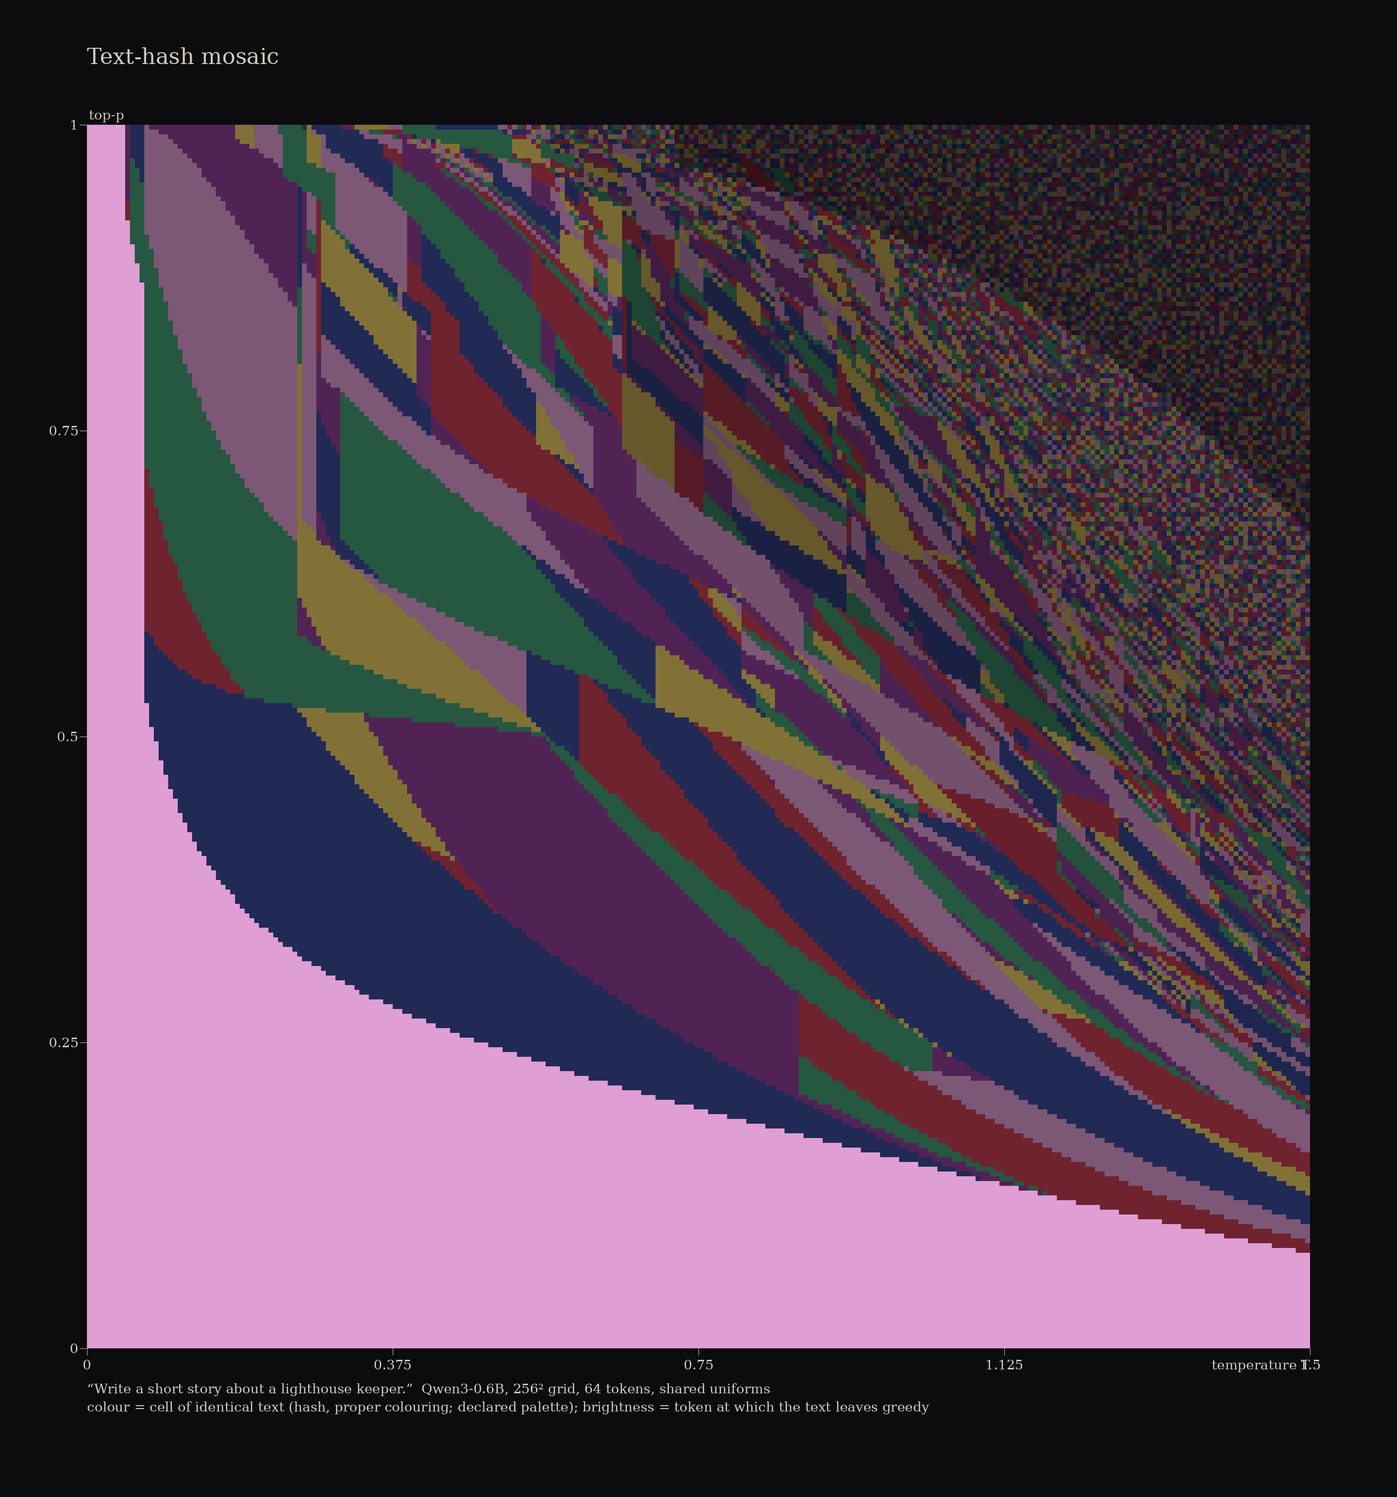
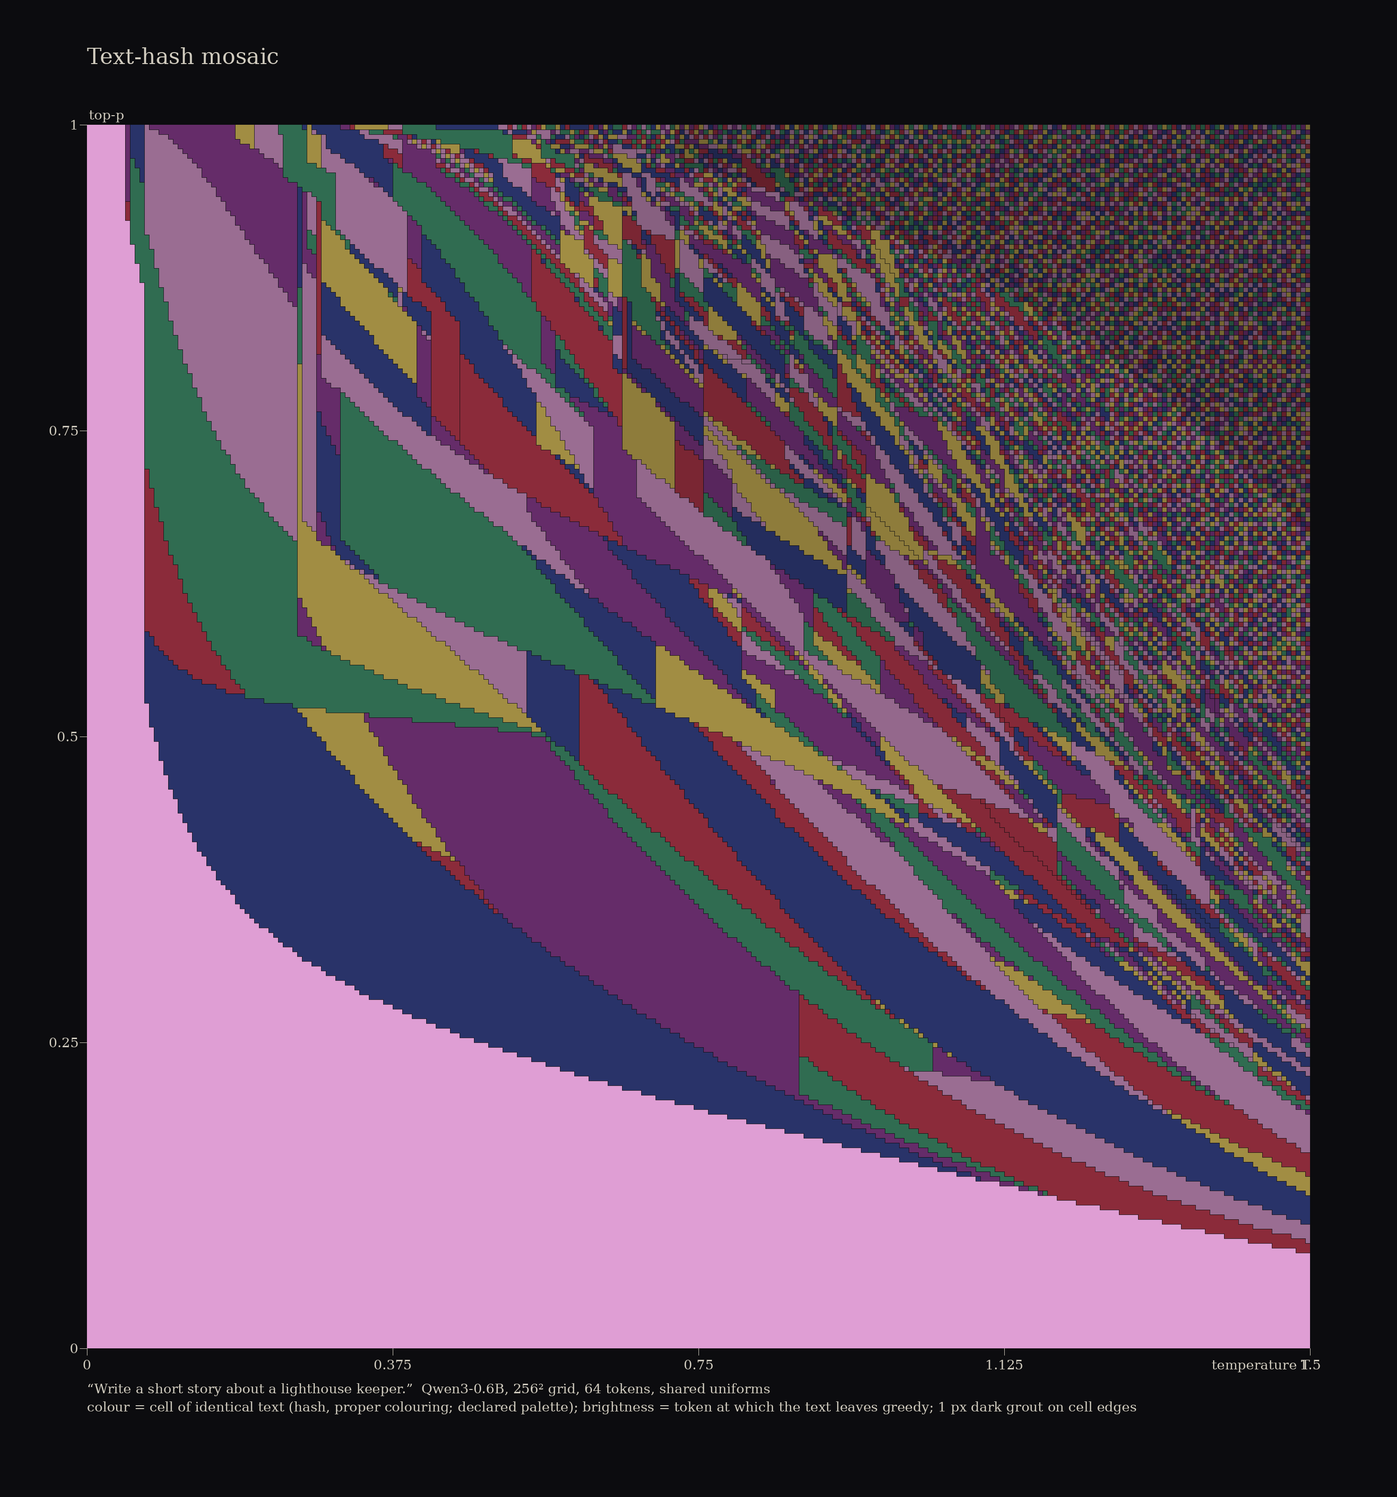
art/decode-map: (T, repetition penalty) map plates (glass/mosaic/ink/age, penalty Spectral), top-p vs penalty diptych, README section, touched-up firstdiv/age/mosaic plates; NOTES complete

diff --git a/art/decode-map/heroes.py b/art/decode-map/heroes.py
@@ -24,6 +24,16 @@ def axes(d):
     return ((d["xs"][0] - dx / 2, d["xs"][-1] + dx / 2), (d["ys"][0] - dy / 2, d["ys"][-1] + dy / 2), xl, yl)
 
 
+def fd_split(fd, Hs, horizon=HORIZON):
+    """Signed field for a first-divergence Spectral split at `horizon`: integer part = |fd - horizon + 0.5|
+    (earlier/later departure = further from the seam), fractional tie-break = global rank of the mean
+    sampling entropy (varies smoothly with the knobs inside a cell; declared)."""
+    from scipy.stats import rankdata
+    frac = 0.98 * (rankdata(np.round(Hs, 3).ravel()).reshape(Hs.shape) - 1) / Hs.size
+    dist = np.abs(fd - (horizon - 0.5)) + frac
+    return np.where(fd < horizon, -dist, dist)
+
+
 def put(img, name, sub, d, title, caption, dark=True):
     g, ink = ((0.05, 0.05, 0.06), (0.82, 0.8, 0.75)) if dark else (tuple(R.INK_PAPER), (0.15, 0.15, 0.15))
     R.save(R.frame(img, title, caption, ground=g, ink=ink, axes=axes(d)), name, sub)
@@ -35,21 +45,21 @@ def maps(names=("story_tp256", "list_tp256", "fact_tp256"), s=10):
         d = A.load(C + n + ".npz")
         L = d["tokens"].shape[2]
         q = f"“{d['prompt']}”  Qwen3-0.6B, {d['tokens'].shape[0]}² grid, {L} tokens, shared uniforms"
-        put(R.style_mosaic(d, s), f"{n}_mosaic.png", "hero", d, "Text-hash mosaic", q +
-            "\ncolour = cell of identical text (hash, proper colouring; declared palette); brightness = token at which the text leaves greedy")
+        put(R.style_mosaic(d, s, floor=0.5, grout=1), f"{n}_mosaic.png", "hero", d, "Text-hash mosaic", q +
+            "\ncolour = cell of identical text (hash, proper colouring; declared palette); brightness = token at which the text leaves greedy; 1 px dark grout on cell edges")
         put(R.style_glass(d, s), f"{n}_glass.png", "hero", d, "Stained glass", q +
             "\nlead = boundary between different texts; glass colour and jitter declared from the text hash")
         put(R.style_ink(d, s, w=2), f"{n}_ink.png", "hero", d, "Boundary lines", q +
             "\none line per tile edge whose two texts differ; darker = the texts part at an earlier token", dark=False)
-        put(R.style_age(d, s, w=2), f"{n}_age.png", "hero", d, "Boundary age", q +
-            f"\nboundary colour = token index at which the neighbours part (batlow, 0 → {L - 1})")
+        put(R.style_age(d, s, w=3, floor=0.25), f"{n}_age.png", "hero", d, "Boundary age", q +
+            f"\nboundary colour = token index at which the neighbours part (batlow from 25 %, 0 → {L - 1})")
         if n == "story_tp256":
             fd = A.first_divergence(d["tokens"]).astype(float)
-            sig = fd - (HORIZON - 0.5)
+            sig = fd_split(fd, A.mean_entropy(d, "H_samp"))
             put(R.style_split(sig, s, lead_tokens=d["tokens"][..., :HORIZON]), f"{n}_firstdiv_spectral.png", "hero", d,
                 "First divergence from greedy, Spectral split",
                 q + f"\nsigned = (token where the text leaves the greedy text) − {HORIZON}: purple side leaves before token {HORIZON}, red side later or never."
-                f"\nEach side rank-normalised (declared; sequential quantity, labelled variant). Thin lines: boundaries born before token {HORIZON}")
+                f"\nTies within one token index broken by mean sampling entropy; each side rank-normalised (declared; labelled variant). Thin lines: boundaries born before token {HORIZON}")
             sig, thr = R.coherence_split(d)
             put(R.style_split(sig, s), f"{n}_coherence_spectral.png", "hero", d, "Coherent vs degenerate, Spectral split",
                 q + f"\nsigned = mean model entropy along the text − {thr:.2f} nats (histogram valley); purple = coherent, red = degenerate")
@@ -127,6 +137,42 @@ def table(n="story_tp256", ps=(0.5, 0.9), T_max=1.5, rows=10):
         out.append(hover.transect_table(C + n + ".npz", p, rows, T_max))
     open(f"cache/{n}_transects.html", "w").write("\n".join(out))
     print("\n".join(out)[:3000])
+
+
+def tr(n="story_tr192", ref="story_tp256", s=14):
+    """(T, repetition penalty) map at p = 1: hero styles, penalty Spectral plate, tp-vs-tr diptych."""
+    d = A.load(C + n + ".npz")
+    tk = d["tokens"]
+    L = tk.shape[2]
+    q = f"“{d['prompt']}”  Qwen3-0.6B, {tk.shape[0]}² grid, {L} tokens, top-p = 1, shared uniforms, HF-style penalty on prompt + text"
+    put(R.style_glass(d, s), f"{n}_glass.png", "hero", d, "Stained glass, repetition penalty", q +
+        "\nlead = boundary between different texts; glass colour and jitter declared from the text hash")
+    put(R.style_mosaic(d, s, floor=0.5, grout=1), f"{n}_mosaic.png", "hero", d, "Text-hash mosaic, repetition penalty", q +
+        "\ncolour = cell of identical text (declared palette); brightness = token at which the text leaves greedy; 1 px grout")
+    put(R.style_ink(d, s, w=2), f"{n}_ink.png", "hero", d, "Boundary lines, repetition penalty", q +
+        "\none line per tile edge whose two texts differ; darker = the texts part at an earlier token", dark=False)
+    put(R.style_age(d, s, w=4, floor=0.25), f"{n}_age.png", "hero", d, "Boundary age, repetition penalty", q +
+        f"\nboundary colour = token index at which the neighbours part (batlow from 25 %, 0 → {L - 1})")
+    fd = A.first_divergence(tk, None)
+    diff = tk != tk[0][None]                   # reference = the unpenalised (ρ ≈ 1.003) text in the same T column
+    fdu = np.where(diff.any(-1), diff.argmax(-1), L)
+    sig = fd_split(fdu, A.mean_entropy(d, "H_samp"))
+    put(R.style_split(sig, s, lead_tokens=tk[..., :HORIZON]), f"{n}_penalty_spectral.png", "metrics", d,
+        "Where the penalty rewrites the story, Spectral split", q +
+        f"\nsigned = (token where the text leaves the unpenalised text at the same T) − {HORIZON}: purple = rewritten before token {HORIZON}, red = later or never."
+        f"\nTies broken by mean sampling entropy; each side rank-normalised (declared). Thin lines: boundaries born before token {HORIZON}")
+    # diptych: same prompt, same uniforms, top-p axis vs penalty axis, both at 16 tokens (inside the horizon)
+    dr = A.load(C + ref + ".npz")
+    ims = []
+    for dd, name in [(dr, "top-p ∈ [0, 1], penalty 1"), (d, "repetition penalty ∈ [1, 2], top-p 1")]:
+        dd = dict(dd); dd["tokens"] = dd["tokens"][..., :HORIZON]
+        nc = len(np.unique(A.prefix_hashes(dd["tokens"])[-1]))
+        sc = 2688 // dd["tokens"].shape[0]
+        ims.append(R.frame(R.style_glass(dd, sc), name, f"{nc} distinct {HORIZON}-token texts in {dd['tokens'].shape[0]}² samples", axes=axes(dd)))
+    h = max(i.shape[0] for i in ims)
+    ims = [np.pad(i, ((0, h - i.shape[0]), (0, 0), (0, 0)), constant_values=0.06) for i in ims]
+    R.save(np.concatenate(ims, 1), "diptych_topp_vs_penalty_glass_L16.png", "diptych")
+    print("diptych")
 
 
 def redo():

diff --git a/art/decode-map/render.py b/art/decode-map/render.py
@@ -132,7 +132,7 @@ def frame(img, title=None, caption=None, ground=(0.06, 0.06, 0.07), ink=(0.85, 0
 
 
 # ---------------------------------------------------------------------------- styles
-def style_mosaic(d, s, pal="klimt_categorical", ground=(0.05, 0.05, 0.06), gamma=0.6, colours=None):
+def style_mosaic(d, s, pal="klimt_categorical", ground=(0.05, 0.05, 0.06), gamma=0.6, colours=None, floor=0.28, grout=0):
     """Categorical: proper colouring of the output-text cells (adjacent distinct outputs never share
     a colour); brightness = first-divergence position from the greedy output (late = bright)."""
     tk = d["tokens"]
@@ -142,9 +142,14 @@ def style_mosaic(d, s, pal="klimt_categorical", ground=(0.05, 0.05, 0.06), gamma
         colours = A.stable_colours(hs, len(palette(pal)), [L])[0]
     P = palette(pal)
     fd = A.first_divergence(tk)
-    v = 0.28 + 0.72 * (fd / L) ** gamma
+    v = floor + (1 - floor) * (fd / L) ** gamma
     img = P[colours] * v[..., None]
-    return tiles(img, s)
+    canvas = tiles(img, s)
+    if grout:                                   # thin dark grout along cell edges (declared)
+        bv, bh = edge_fields(tk)
+        fn = lambda e: (np.zeros(e.shape + (3,)) + np.array(ground), np.where(e < L, 0.85, 0.0))
+        canvas = paint_edges(canvas, bv.astype(float), bh.astype(float), s, grout, fn)
+    return canvas
 
 
 def style_glass(d, s, lead=None, pal="glass", colours=None, light=True):
@@ -186,7 +191,7 @@ def style_ink(d, s, w=None, paper=INK_PAPER, ink=SUMI, weight_by_age=True):
     return paint_edges(canvas, bv.astype(float), bh.astype(float), s, w, fn)
 
 
-def style_age(d, s, cmap="cmc.batlow", ground=(0.02, 0.02, 0.03), w=None):
+def style_age(d, s, cmap="cmc.batlow", ground=(0.02, 0.02, 0.03), w=None, floor=0.0):
     """Boundary-age plate: each boundary coloured by the token index at which it was born."""
     tk = d["tokens"]
     L = tk.shape[2]
@@ -197,7 +202,7 @@ def style_age(d, s, cmap="cmc.batlow", ground=(0.02, 0.02, 0.03), w=None):
     w = w or max(1, s // 3)
 
     def fn(v):
-        return cm(np.clip(v / max(1, L - 1), 0, 1))[..., :3], np.where(v < L, 1.0, 0.0)
+        return cm(floor + (1 - floor) * np.clip(v / max(1, L - 1), 0, 1))[..., :3], np.where(v < L, 1.0, 0.0)
     return paint_edges(canvas, bv.astype(float), bh.astype(float), s, w, fn)
 
 

diff --git a/art/decode-map/README.md b/art/decode-map/README.md
@@ -24,10 +24,10 @@ All plates show the story prompt “Write a short story about a lighthouse keepe
 <table>
 <tr><td><img src="gallery/hero/story_tp256_glass.png" width="400"><br><b>Stained glass.</b> Lead = tile edges whose two texts differ; glass colour is a hash-based proper colouring (declared).</td>
 <td><img src="gallery/hero/story_tp256_ink.png" width="400"><br><b>Boundary lines, single ink.</b> Darker lines mark texts that part at an earlier token (opacity 1 − 0.75·t/L, declared).</td></tr>
-<tr><td><img src="gallery/hero/story_tp256_mosaic.png" width="400"><br><b>Text-hash mosaic.</b> Colour = text cell; brightness = token at which the text leaves the greedy text.</td>
-<td><img src="gallery/hero/story_tp256_age.png" width="400"><br><b>Boundary age.</b> Line colour = token index at which the neighbours part (batlow, 0 → 63).</td></tr>
+<tr><td><img src="gallery/hero/story_tp256_mosaic.png" width="400"><br><b>Text-hash mosaic.</b> Colour = text cell; brightness = token at which the text leaves the greedy text; 1 px dark grout (declared).</td>
+<td><img src="gallery/hero/story_tp256_age.png" width="400"><br><b>Boundary age.</b> Line colour = token index at which the neighbours part (batlow from 25 % so early edges stay visible, 0 → 63; 3 px lines).</td></tr>
 <tr><td><img src="gallery/hero/story_tp256_riso.png" width="400"><br><b>Two-ink riso.</b> Blue = boundaries; pink = rank of mean model entropy; pink misregistered by 4 px (declared).</td>
-<td><img src="gallery/hero/story_tp256_firstdiv_spectral.png" width="400"><br><b>First divergence, Spectral split</b> at token 16, the reproducibility horizon (labelled variant for a sequential quantity). Thin lines = boundaries born before token 16.</td></tr>
+<td><img src="gallery/hero/story_tp256_firstdiv_spectral.png" width="400"><br><b>First divergence, Spectral split</b> at token 16, the reproducibility horizon (labelled variant for a sequential quantity). Ties within one token index are broken by mean sampling entropy, which gives the gradients. Thin lines = boundaries born before token 16.</td></tr>
 </table>
 
 ### Continuous metrics
@@ -51,6 +51,26 @@ Both rules sample exactly the same distribution per step, but the maps differ. I
 <td><img src="gallery/hero/list_tp256_ink.png" width="265"><br>List prompt, ink</td>
 <td><img src="gallery/hero/fact_tp256_mosaic.png" width="265"><br>Fact prompt (“capital of Australia”): one answer covers ~97 % of the plane. Only the T > 1.3, p → 1 corner fractures (292 texts).</td>
 </tr></table>
+
+### Temperature × repetition penalty (192², L = 48)
+The same prompt and the same uniforms u<sub>t</sub>, but now top-p is fixed at 1 and the y axis is the HF-style repetition penalty ρ ∈ [1, 2]: for every token already present in the prompt (chat template) or the text so far, a positive logit is divided by ρ and a negative one multiplied by ρ, and only then tempered.
+<img src="gallery/diptych/diptych_topp_vs_penalty_glass_L16.png" width="820"><br>
+<i>Glass, both maps cut at 16 tokens (the reproducibility horizon). Left: (T, top-p). Right: (T, ρ). Measured partitions; colours declared.</i>
+<table>
+<tr><td><img src="gallery/hero/story_tr192_glass.png" width="400"><br><b>Stained glass</b>, L = 48, 11,922 distinct texts.</td>
+<td><img src="gallery/hero/story_tr192_ink.png" width="400"><br><b>Boundary lines, single ink.</b> A Mondrian grid: the boundaries are almost all axis-parallel.</td></tr>
+<tr><td><img src="gallery/hero/story_tr192_mosaic.png" width="400"><br><b>Text-hash mosaic</b> (brightness = token at which the text leaves the T → 0, ρ ≈ 1 text).</td>
+<td><img src="gallery/metrics/story_tr192_penalty_spectral.png" width="400"><br><b>Where the penalty rewrites the story, Spectral split.</b> Signed = (token at which the text leaves the unpenalised text in the same T column) − 16. Purple = rewritten before token 16, red = later or never. Ties broken by mean sampling entropy, each side rank-normalised (declared, labelled variant).</td></tr>
+<tr><td><img src="gallery/hero/story_tr192_age.png" width="400"><br><b>Boundary age</b> (batlow, 0 → 47).</td><td></td></tr>
+</table>
+
+**How it differs from the (T, top-p) map** (`scratch/tr_stats.py`, `scratch/tr_edges.py`):
+- **Geometry.** Top-p cuts the plane along curves, because the nucleus cutoff and the tempered CDF move together. The penalty map is **rectilinear**. Near T = 0 the argmax flips at a penalty value that does not depend on T, which gives horizontal edges. At high T every small T step re-rolls a token while ρ only rescales the few already-seen tokens, which gives vertical stripes. At T > 1 and l = 16, a single T step (ΔT = 0.0078) changes the text in 95 % of neighbour pairs, but a single ρ step (Δρ = 0.0052) changes it in only 31 %. In the (T, p) map the two directions are nearly isotropic there (24 % vs 21 %).
+- **The first token ignores the penalty.** Across the whole plane only 3 neighbour pairs along ρ differ at l = 1. The 45 first-token cells are vertical stripes, mostly at T > 1. (The (T, p) map has 152 first tokens, carved by p.)
+- **More texts.** There are 1483 / 2542 / 4078 / 11,922 texts at l = 4 / 8 / 16 / 48 on 36,864 pixels, against 955 / 1604 / 2056 / 5208 on 65,536 pixels for (T, p). No region is protected: top-p → 0 forces greedy decoding over a large region, but top-p = 1 has none, so the largest cell covers only 13 % of the plane at l = 16 (34 % for (T, p)).
+- **The penalty does rewrite the story, but late at small ρ.** The median token at which the text leaves the unpenalised text is 19 at ρ = 1.05, 13 at ρ = 1.2, 7 at ρ = 1.5 and 3 at ρ = 2.
+- **No visible degeneration effect within 48 tokens.** Verbatim 3-gram repetition shows up in only 0.1 % of pixels across the plane (0.8 % in the (T, p) map), and mean model entropy rises only from 1.61 to 1.71 nats from ρ = 1 to 2. The coherence split has no valley here (99.5 % "coherent"), so it is not rendered. At this length the penalty acts as a re-roll of token choices, not a cure for loops.
+- The bottom row (ρ = 1.003) runs the same setting as the top row of the (T, p) map (p = 0.998). It used KV capacity Ncap = 256 instead of 384, a kernel change of the kind the placement table shows can re-roll late tokens.
 
 ### Films
 <video src="gallery/film/refine_story256_ink.mp4" autoplay loop muted playsinline width="540"></video>
@@ -84,7 +104,7 @@ Walking along T at fixed top-p through the 256² map. Grey = prefix shared with 
 - **Model:** Qwen3-0.6B (HF weights, `local_files_only`). `qwen.py` is a hand-written reimplementation with a **bfloat16 body and fp32 LM head**, a static KV cache and no padding, verified against HF (`test_model.py`). Prompts use the chat template (`sample.py: chat_ids`).
 - **Decoder engine** (`decode.py`): a prefix-trie that forwards each distinct prefix once, with CUDA-graph single-token steps (window Fb = 128, KV capacity Ncap = 384). The **certified sampler** computes per row an fp32 top-2048 plus a 0.04-logit histogram of all 151,936 logits, brackets the tail mass, and accepts a pixel only when the top-p cutoff and the inverse-CDF token agree at both brackets. Otherwise the pixel escalates K′ = 256 → 2048 → 32768 → a full float64 sort. Against a naive batch-1 float64 full-sort reference (`test_engine.py`), the certified and V-wide samplers give **identical maps (0 / 4096 pixels differ)** on the same forward kernels.
 - **Noise:** seed 0, u<sub>t</sub> ~ U(0,1) float64, one per position, shared by every pixel. Gumbel: g<sub>t,v</sub> float64, per position and vocab entry.
-- **Grids:** T ∈ [0, 1.5] and p ∈ [0, 1] at pixel centres. story_tp256 (L = 64, 1860 s, 246k node-steps), list_tp256 (L = 48, 292 s), fact_tp256 (L = 64, 131 s), story_tp128 (L = 48, 311 s), story_tp128_gumbel (44 s), plus placement runs (≈ 3400 s). Total GPU ≈ 2 h on the shared GB10, plus earlier toy runs.
+- **Grids:** T ∈ [0, 1.5] and p ∈ [0, 1] at pixel centres. story_tp256 (L = 64, 1860 s, 246k node-steps), list_tp256 (L = 48, 292 s), fact_tp256 (L = 64, 131 s), story_tp128 (L = 48, 311 s), story_tp128_gumbel (44 s), story_tr192 (T × repetition penalty 1–2, p = 1, L = 48, Ncap 256, 2126 s, 298k node-steps), plus placement runs (≈ 3400 s). Total GPU ≈ 2.6 h on the shared GB10, plus earlier toy runs.
 - **Commands** (from `decode-map/`, `PYTHONPATH=. ../.venv/bin/python`, wrapped in `../_shared/gpu_run.sh`):
 ```
 python decode.py --prompt story --res 256 --L 64 --x 0 1.5 --Fb 128 --Ncap 384 --out cache/story_tp256.npz
@@ -94,8 +114,9 @@ python decode.py --prompt story --res 128 --L 48 --x 0 1.5 --Fb 128 --Ncap 384 -
 python decode.py --prompt story --res 128 --L 48 --x 0 1.5 --rule gumbel --nograph --out cache/story_tp128_gumbel.npz
 python decode.py --prompt story --res 64 --L 32 --x 0 2 [--nograph | --slow --nograph | --fp32 | --shuffle --chunk_cols 2 --Ncap 32 --Fb 16] --out cache/place_story64_*.npz
 python decode.py --prompt story --res 128 --L 48 --x 0 1.5 --shuffle --chunk_cols 8 --Ncap 96 --Fb 32 --out cache/place_story128_shuffle.npz
+python decode.py --prompt story --grid tr --res 192 --L 48 --x 0 1.5 --y 1 2 --p_fixed 1.0 --Fb 128 --Ncap 256 --out cache/story_tr192.npz
 python verify.py placement cells horizon box        # -> cache/verify.json, gallery/verify_*.png
-python heroes.py maps metrics diptych table         # CPU renders
+python heroes.py maps metrics diptych table tr        # CPU renders
 python -c "import anim; anim.main('cache/story_tp256.npz','gallery/film/refine_story256_glass',s=4,mode='glass',hold=22,fade=8)"
 ```
 
@@ -132,7 +153,7 @@ Box counting of the boundary set (ε = 1/256 … 1/4 of the window). **Whole pla
 - 256² is coarse for high T: 79 % of cells there are single pixels, so that corner reads as texture, not resolved geometry.
 - Top-p = 0 is greedy by construction. The y axis is the nucleus mass, not a probability of the output.
 - The inverse-CDF map depends on the (descending-probability) sort order of the CDF; a different order convention gives a different map. Gumbel-max has no such dependence.
-- `story_tr192` ((T, repetition penalty) map) OOMed in the first attempt and was relaunched (see NOTES). It is not in this README yet.
+- The penalty map is one prompt, one seed and L = 48. The penalty is designed for long generations, and its effect on loops past 48 tokens was not measured.
 - Files over 20 MB are not committed: none so far.
 
 ## References

diff --git a/art/decode-map/NOTES.md b/art/decode-map/NOTES.md
@@ -1,6 +1,18 @@
 # decode-map: NOTES (living handoff)
 
-## State (2026-09-13, agent 4) -- README written, heroes rendered
+## STATUS: COMPLETE (2026-09-13, agent 5). No running jobs. Nothing left in "next".
+- story_tr192 (T x repetition penalty 1-2, p=1, L48, 2126 s) rendered: `python heroes.py tr` ->
+  gallery/hero/story_tr192_{glass,mosaic,ink,age}.png, gallery/metrics/story_tr192_penalty_spectral.png,
+  gallery/diptych/diptych_topp_vs_penalty_glass_L16.png (strongest new image). README section added.
+- Key tr numbers: texts 1483/2542/4078/11922 at l=4/8/16/48 (36864 px); first token ignores rho (3 rho-neighbour
+  pairs differ at l=1, 45 first tokens, vertical stripes); rectilinear cells: T>1, l=16 T-step cuts 95% vs rho-step 31%
+  ((T,p): 24/21%); median first token leaving unpenalised text 19/13/7/3 at rho 1.05/1.2/1.5/2; no degeneration signal
+  within 48 tokens (rep>0 in 0.1% px, coherence split has no valley -> not rendered). Stats: scratch/tr_stats.py, tr_edges.py.
+- Weak plates touched up: firstdiv Spectral tie-broken by mean H_samp (heroes.fd_split), age w=3 floor 0.25,
+  mosaic floor 0.5 + 1 px grout (render.py new args). Films checked (h264 1080² yuv420p, 81 s); GIFs 5.8/6.8 MB, MP4 4 MB.
+- README link check passes (all src/href exist).
+
+## Earlier state (agent 4)
 - README.md complete draft: gallery, placement table, horizon, box counting verdict, commands, caveats.
 - heroes.py (CPU): `maps` (glass/ink/mosaic/age for story/list/fact 256; story also firstdiv/coherence Spectral,
   aurora, riso), `metrics` (sheet, rep Spectral, entropy magma), `diptych` (icdf vs gumbel 128), `table`
